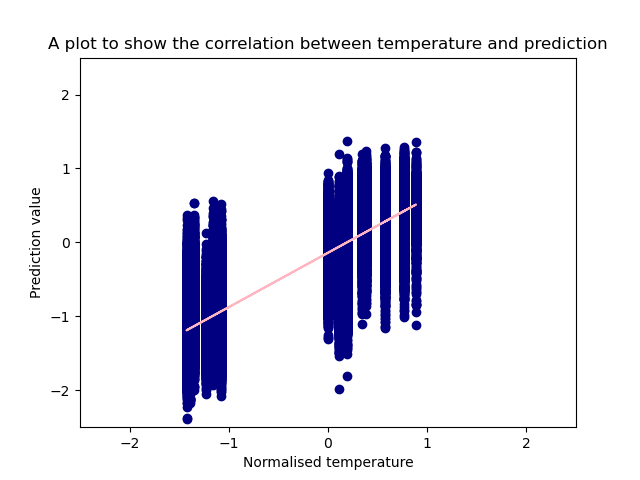
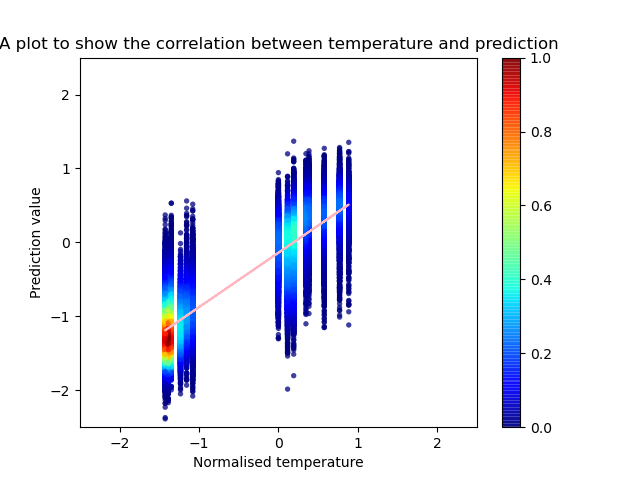
Added density plotting function.

diff --git a/scripts/003/003_plot_correlation.py b/scripts/003/003_plot_correlation.py
@@ -4,19 +4,24 @@ import matplotlib.pyplot as plt
 import pandas as pd
 import sys
 import numpy
+from kern_smooth import densCols
+from matplotlib import cm
 
 df = pd.read_csv(sys.argv[1], sep="\t")
 
 x = df['temperature']
 y = df['prediction']
 
-plt.scatter(x, y, c='navy')
+densities = densCols(x, y, nbin = 128)
+#plt.scatter(x, y, c='navy')
 plt.title('A plot to show the correlation between temperature and prediction')
 plt.ylim(-2.5, 2.5)
 plt.xlim(-2.5, 2.5) 
 plt.xlabel('Normalised temperature')
 plt.ylabel('Prediction value')
-plt.plot()
+sc = plt.scatter(x, y, c=densities, s=15, edgecolors='none', alpha=0.75, cmap=cm.jet)
+plt.colorbar(sc)
+plt.show()
 
 m, b = numpy.polyfit(x, y, 1)
 plt.plot(x, m*x+b, color='lightpink')
